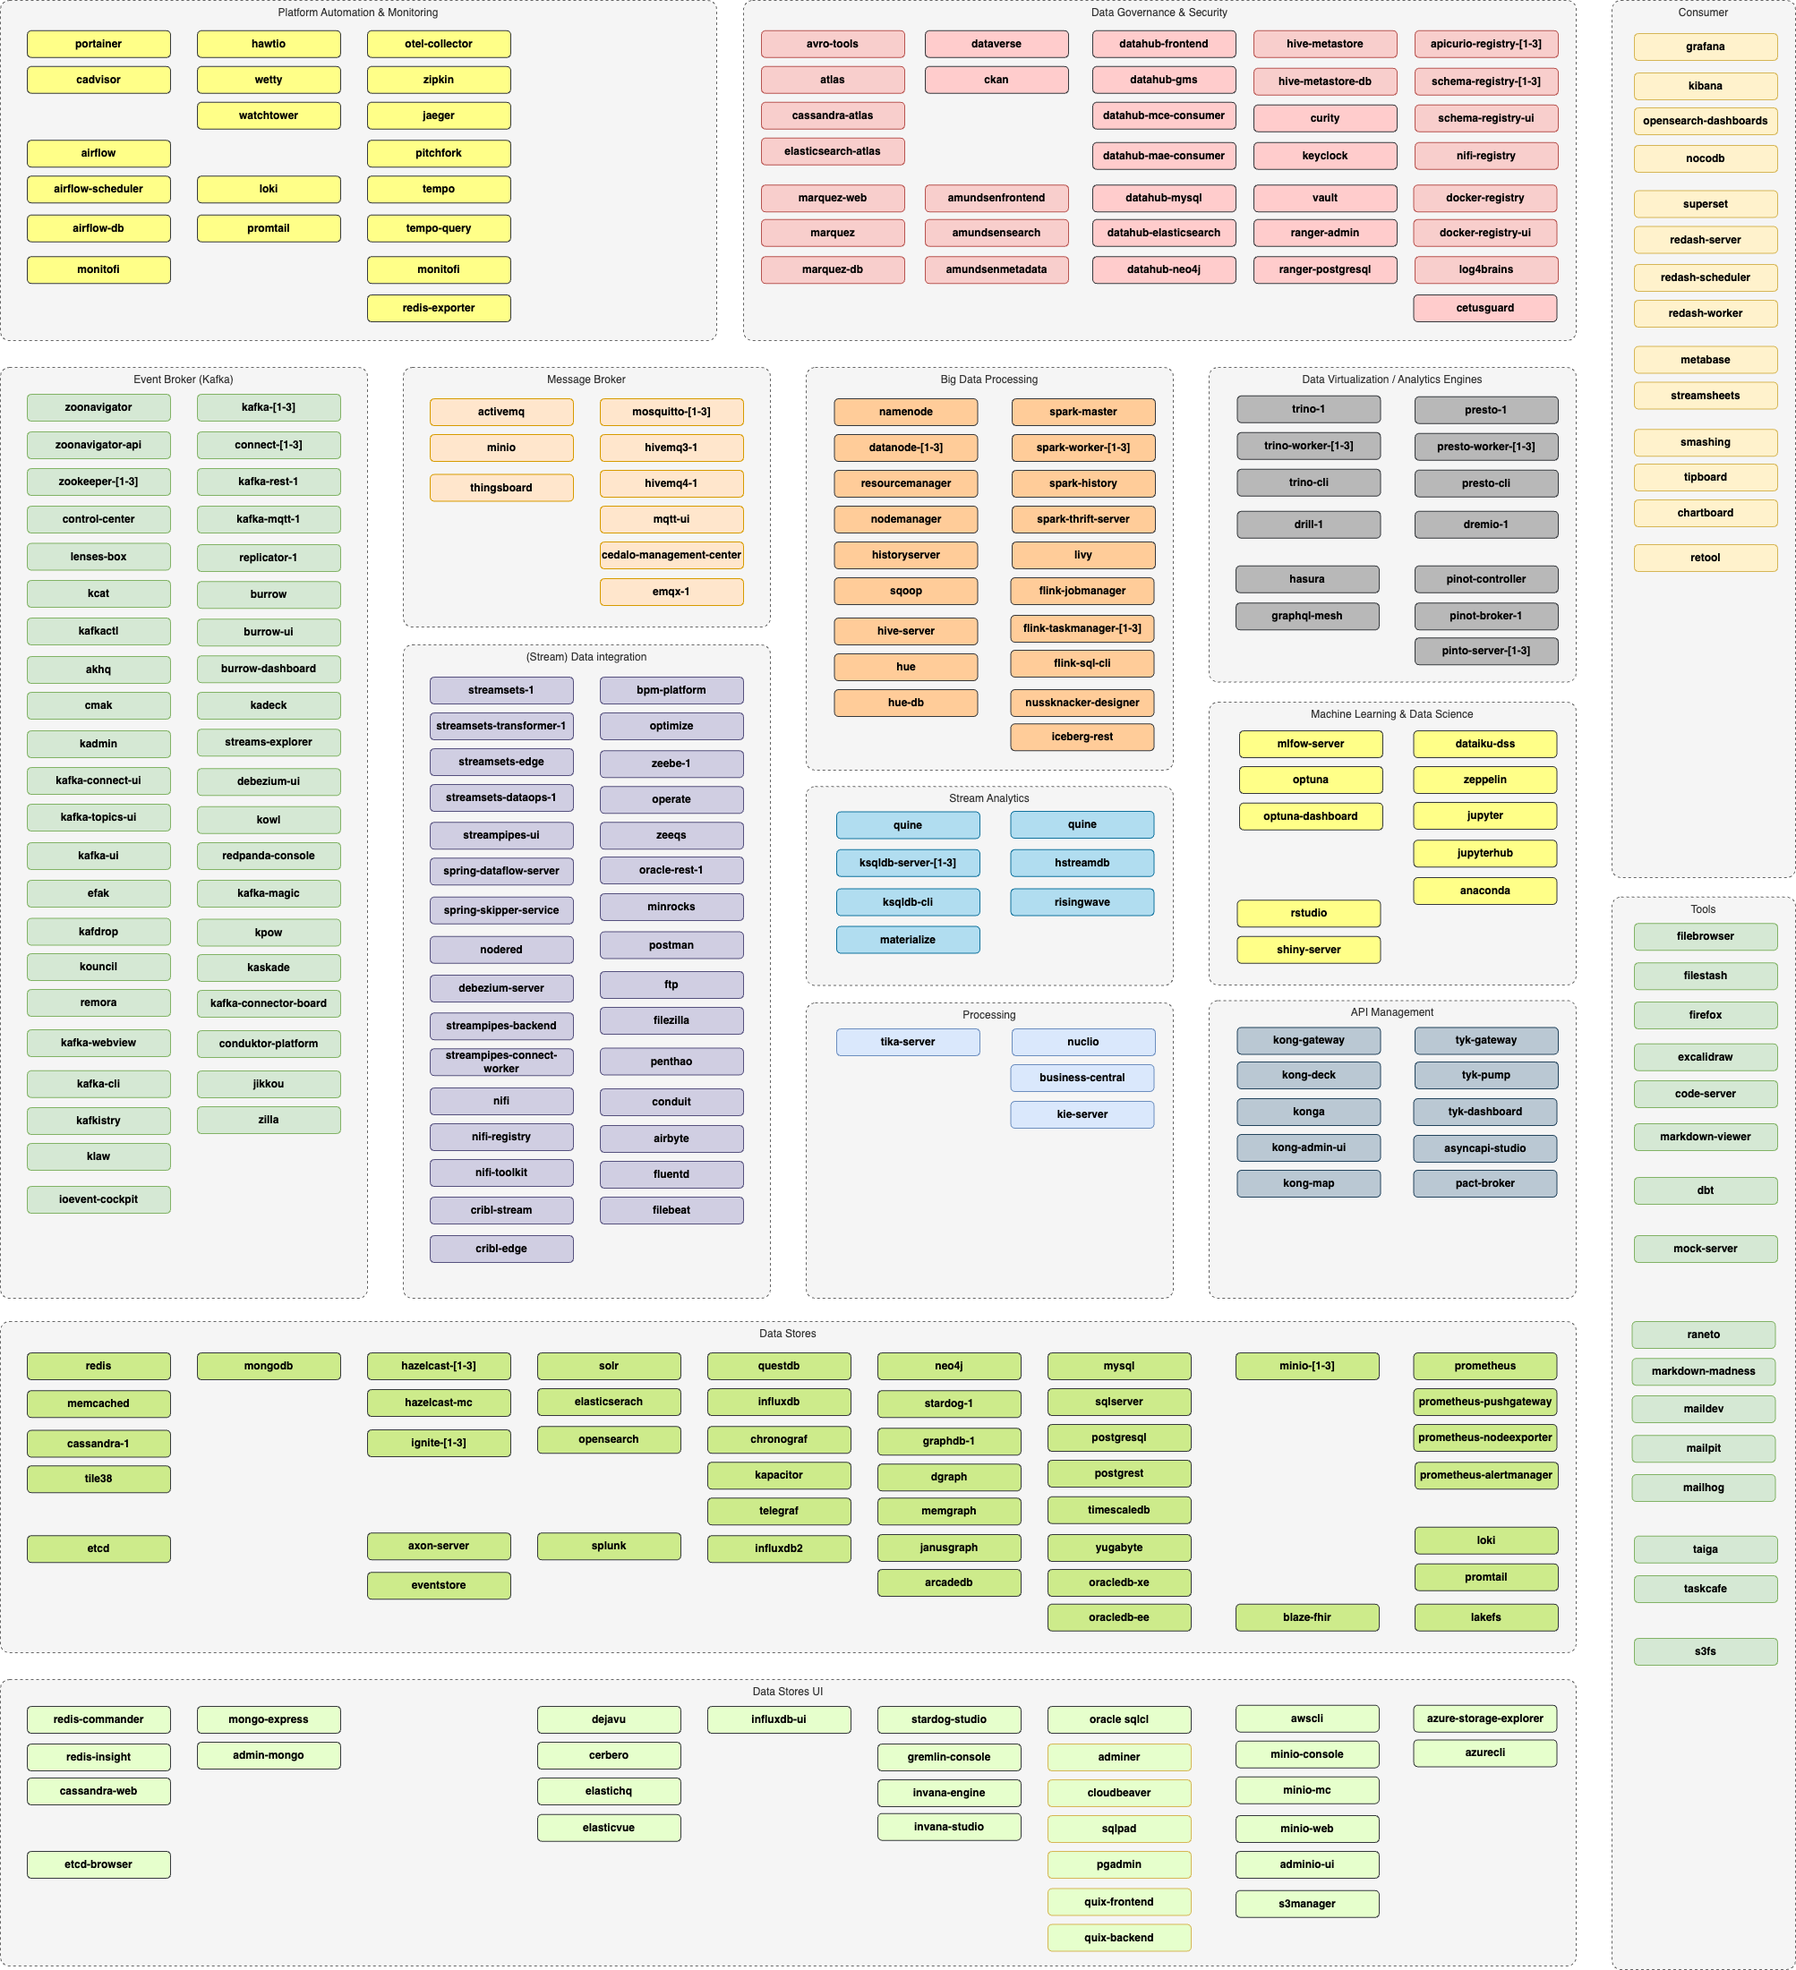
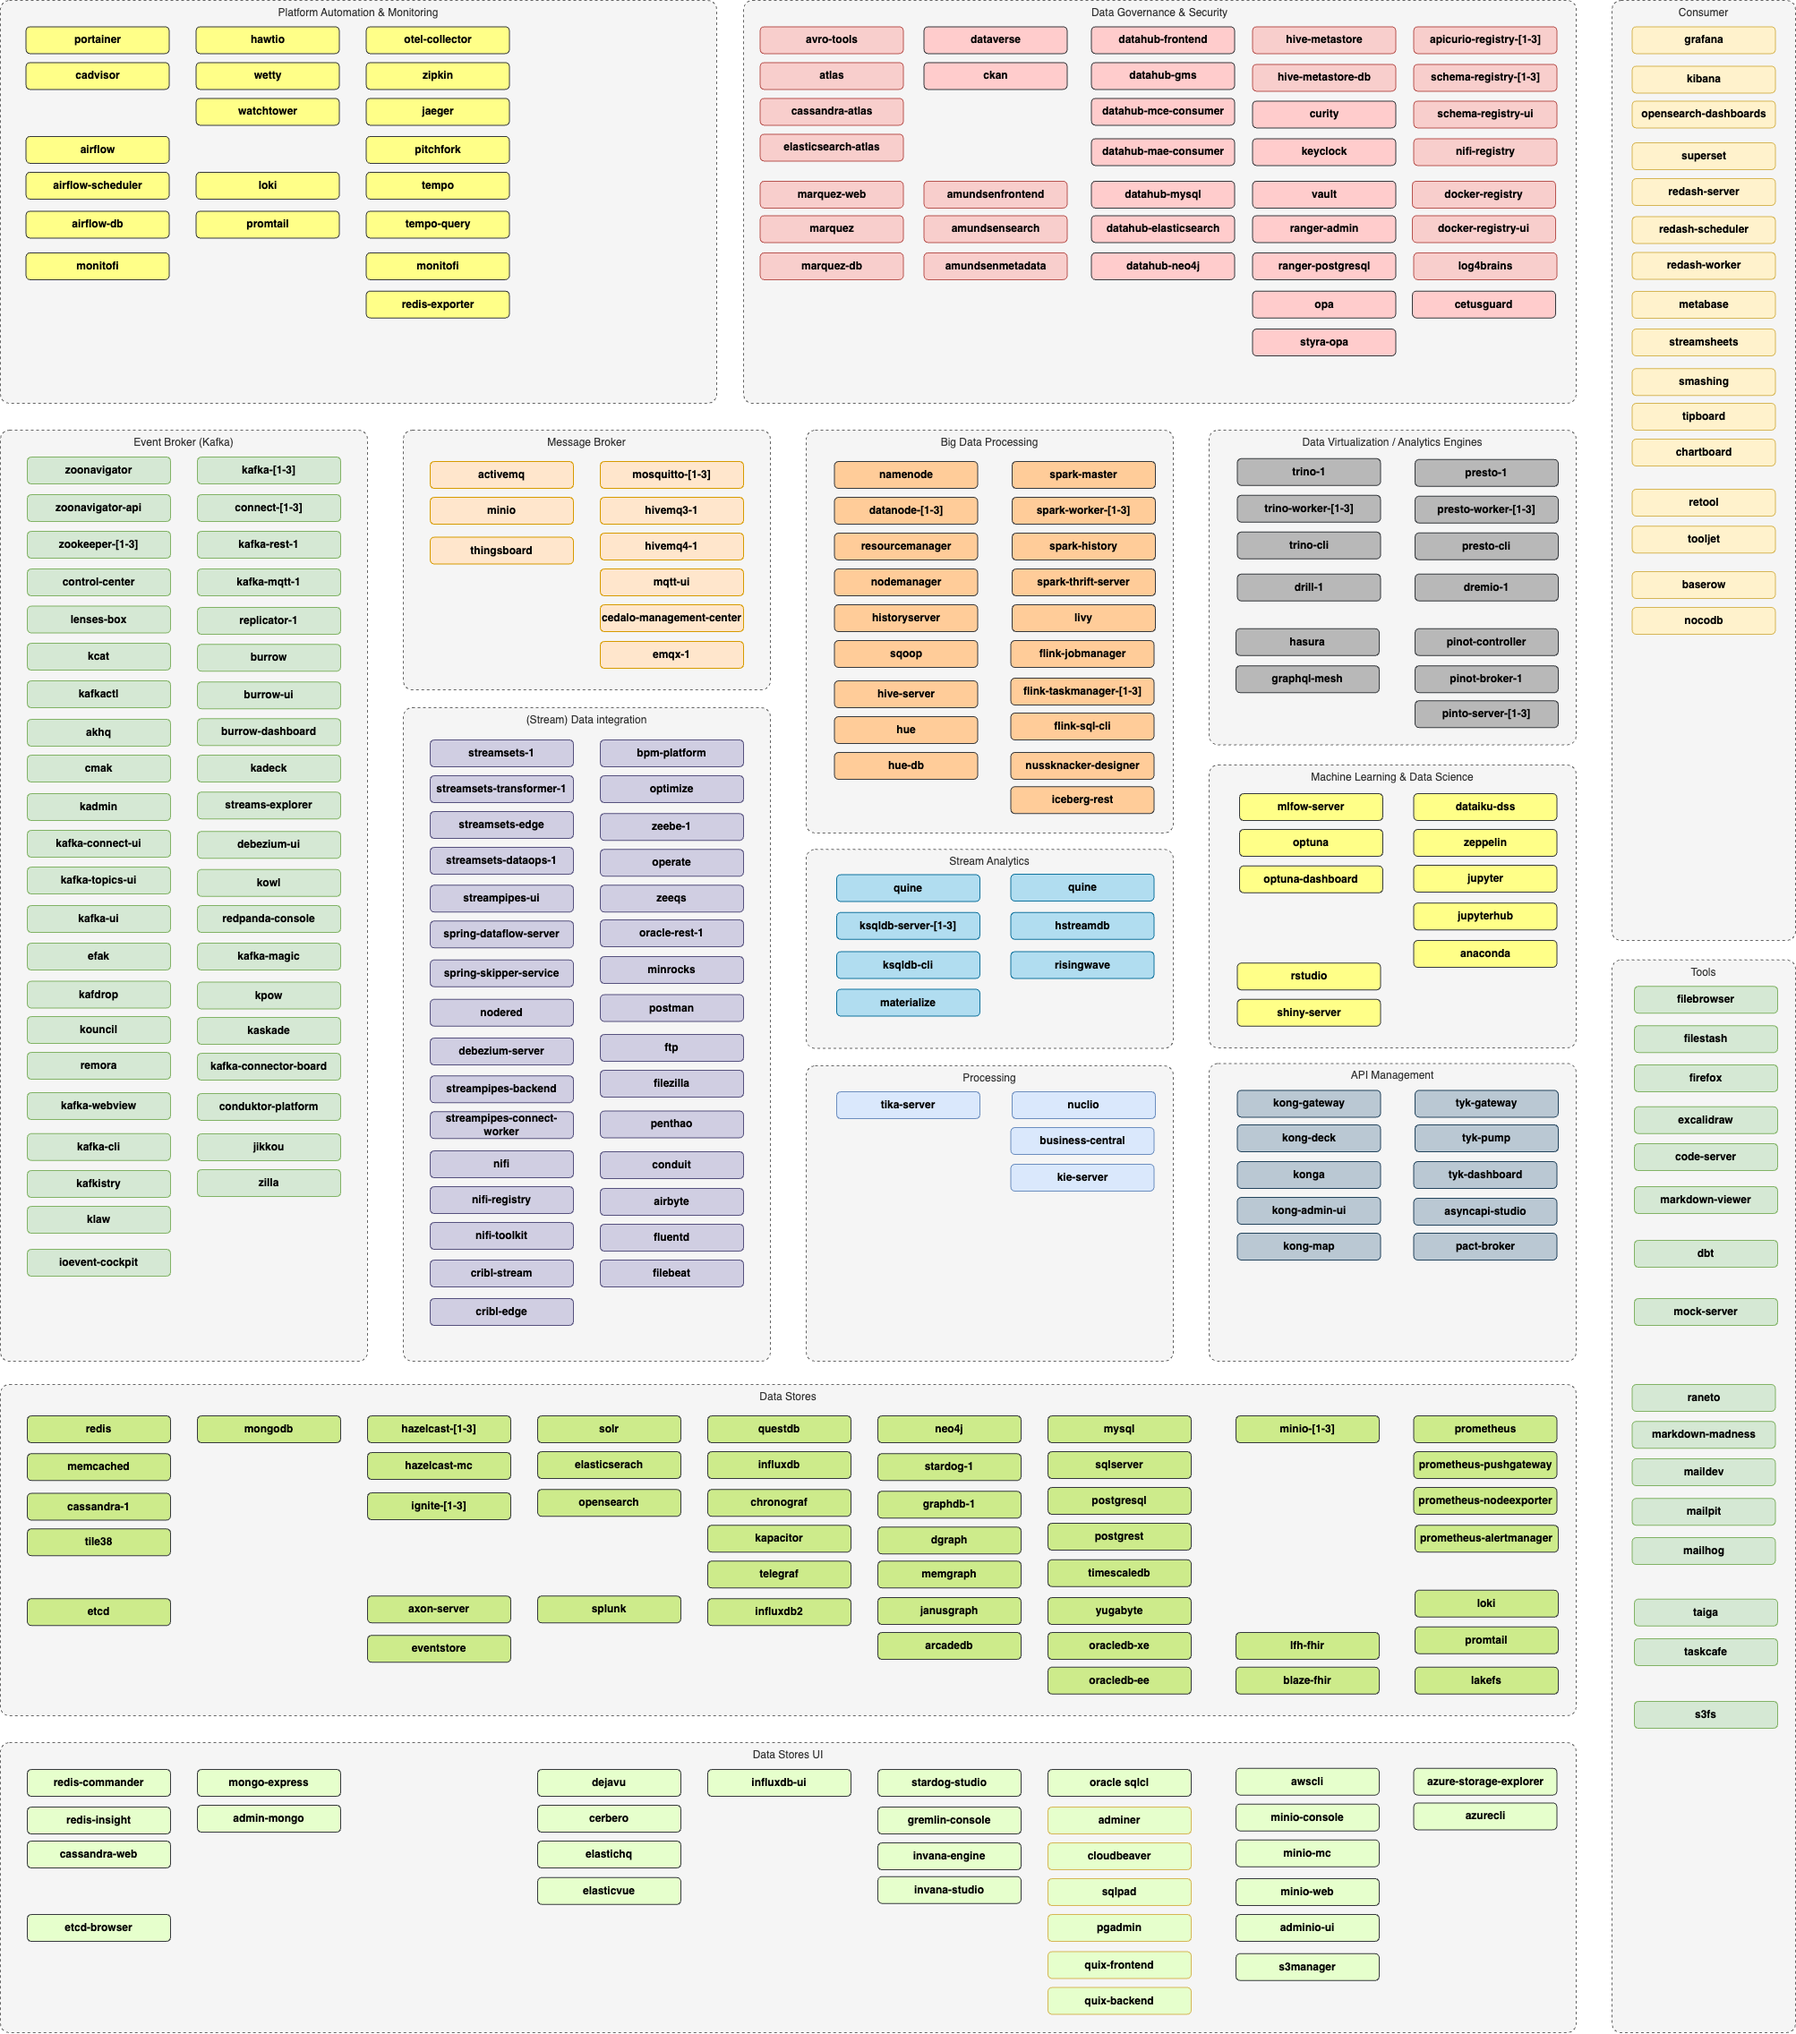
add LinuxForHealth FHIR server: #800

diff --git a/documentation/configuration.md b/documentation/configuration.md
@@ -1390,3 +1390,12 @@ For each service there might be some other settings, such as controlling the num
 | [**_S3FS_**](./services/s3fs.md)   &nbsp;&nbsp;&nbsp;&nbsp;![x86-64](./images/x86-64.png)  ![arm](./images/arm.png)                         	|         	|       	|                                                                                                                                                                                     	|             	|                                	|
 | `S3FS_enable`                             	| `false` 	| 1.17.0 	| Generate S3FS service. You also have to enable either `minio` or external `s3`.                                                                                                                                            	|
 | `S3FS_bucket_name`                             	| `false` 	| 1.17.0 	| The bucket name to use on S3.                                                                                                                                              	|
+
+### Healthcare FHIR
+
+| Config                                         	| Default 	| Since 	| Description                                                                                                                                                                        	                    	|
+|------------------------------------------------	|:-------:	|-------	|-------------------------------------------------------------------------------------------------------------------------------------------------------------------------------------	|   
+| [**_Blaze FHIR Server_**](./services/blaze-fhir.md)   &nbsp;&nbsp;&nbsp;&nbsp;![x86-64](./images/x86-64.png)              	|         	|       	|                                                                                                                                                                                     	|             	|                                	|
+| `BLAZE_FHIR_enable`                             	| `false` 	| 1.17.0 	| Generate Blaze FHIR server service                                                                                                                                             	|             	|                                	|
+| [**_LinuxForHealth FHIR Server_**](./services/lfh-fhir.md)   &nbsp;&nbsp;&nbsp;&nbsp;![x86-64](./images/x86-64.png)                     	|         	|       	|                                                                                                                                                                                     	|             	|                                	|
+| `LFH_FHIR_enable`                             	| `false` 	| 1.17.0 	| Generate LinxuForHealth FHIR server service                                                                                                                                             	|             	|                                	|

diff --git a/documentation/services/lfh-fhir.md b/documentation/services/lfh-fhir.md
@@ -1,0 +1,16 @@
+# LinuxForHealth (IBM) FHIR Server
+
+The LinuxForHealth FHIR® Server and related projects.
+
+**[Website](https://linuxforhealth.github.io/FHIR/)** | **[Documentation](https://linuxforhealth.github.io/FHIR/)** | **[GitHub](https://github.com/LinuxForHealth/FHIR)**
+
+## How to enable?
+
+```bash
+platys init --enable-services LFH_FHIR
+platys gen
+```
+
+## How to use it?
+
+Navigate to <http://dataplatform:9443/fhir-server/api/v4/$healthcheck>. 

diff --git a/documentation/port-mapping.md b/documentation/port-mapping.md
@@ -232,6 +232,7 @@ Container Port(s) | Internal Port(s)           | Service (alternatives) |
 9411 | 9411 | zipkin |
 9412 | 9412 | jaeger |
 9413 | 9413 | pitchfork |
+9443 | 9443 | lfh-fhir |
 9600 | 9600 | zeebe-1 |
 9851 | 9851 | tile38 |
 9870 | 9870 | namenode |

diff --git a/documentation/changes.md b/documentation/changes.md
@@ -40,6 +40,7 @@ The Modern Data Platform version 1.16.0 contains the following bug fixes and enh
  * Cribl Stream
  * Cribl Edge
  * Blaze (FHIR Server)
+ * LinuxForHealth (FHIR Server)
  * FileBeat
  * Open Policy Agent (OPA)
  * Styra Enterprise OPA
